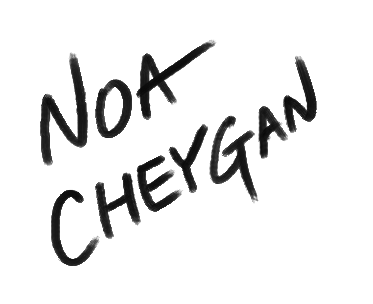
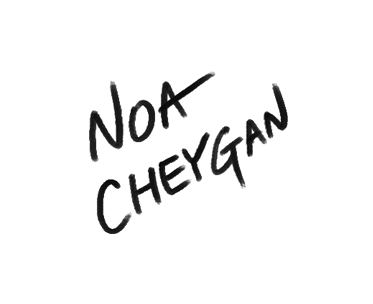
all renewal

Changed region(s): [[0.118, 0.1776, 0.8552, 0.8882], [0.0885, 0.1184, 0.5898, 0.5625]]

diff --git a/gallery.html b/gallery.html
@@ -1,0 +1,80 @@
+<!DOCTYPE html>
+<html>
+    <head>
+        <meta charset="UTF-8">
+        <meta name="viewport" content="width=device-width, initial-scale=1">
+        <meta name=”keywords” content = “Noa, Cheygan″>
+        <meta name = “description” content = “Official website of artist Noa”>
+        <link rel="icon" href="images/favicon.png">
+        <title>Noa Cheygan</title>
+        <link href="https://cdn.jsdelivr.net/npm/bootstrap@5.3.0-alpha3/dist/css/bootstrap.min.css" rel="stylesheet" integrity="sha384-KK94CHFLLe+nY2dmCWGMq91rCGa5gtU4mk92HdvYe+M/SXH301p5ILy+dN9+nJOZ" crossorigin="anonymous">
+    <style>
+        .menu{padding:3px;}
+        .block{padding:50px;}
+    </style>
+    </head>
+
+    <body>
+        
+      <div class="container text-center">
+        <div class="row">
+
+          <div class="col-lg-4 col-md-5">
+            <h2><a href="/"><img src="images/noa.png" alt="Noa Cheygan" width="70%"></a></h2>
+            <div class="menu"><a href="about"><img src="images/about.jpg" alt="About" width="25%"></a></div>
+            <div class="menu"><a href="gallery"><img src="images/gallery.jpg" alt="Gallery" width="25%"></a></div>
+          </div>
+
+          <div class="block col-lg-8 col-md-7">
+            <div id="carouselExampleCaptions" class="carousel slide">
+                <div class="carousel-inner">
+                  <div class="carousel-item active">
+                    <img src="images/230426.jpg" class="d-block w-100" alt="230426">
+                    <div class="carousel-caption d-none d-md-block">
+                      <h5>Faces</h5>
+                    </div>
+                  </div>
+                  <div class="carousel-item">
+                    <img src="images/230427.jpg" class="d-block w-100" alt="230427">
+                    <div class="carousel-caption d-none d-md-block">
+                      <h5>Blue</h5>
+                    </div>
+                  </div>
+                  <div class="carousel-item">
+                    <img src="images/230502-1.jpg" class="d-block w-100" alt="230502-1">
+                    <div class="carousel-caption d-none d-md-block">
+                      <h5>Black and Yellow</h5>
+                    </div>
+                  </div>
+                  <div class="carousel-item">
+                    <img src="images/230502-2.jpg" class="d-block w-100" alt="230502-2">
+                    <div class="carousel-caption d-none d-md-block">
+                      <h5>Yellow Bird</h5>
+                    </div>
+                  </div>
+                  <div class="carousel-item">
+                    <img src="images/230509.jpg" class="d-block w-100" alt="230509">
+                    <div class="carousel-caption d-none d-md-block">
+                      <h5>Blue 2</h5>
+                    </div>
+                  </div>
+                </div>
+                <button class="carousel-control-prev" type="button" data-bs-target="#carouselExampleCaptions" data-bs-slide="prev">
+                  <span class="carousel-control-prev-icon" aria-hidden="true"></span>
+                  <span class="visually-hidden">Previous</span>
+                </button>
+                <button class="carousel-control-next" type="button" data-bs-target="#carouselExampleCaptions" data-bs-slide="next">
+                  <span class="carousel-control-next-icon" aria-hidden="true"></span>
+                  <span class="visually-hidden">Next</span>
+                </button>
+              </div>
+          </div>
+
+        </div>
+      </div>
+
+      <script src="https://cdn.jsdelivr.net/npm/bootstrap@5.3.0-alpha3/dist/js/bootstrap.bundle.min.js"
+      integrity="sha384-ENjdO4Dr2bkBIFxQpeoTz1HIcje39Wm4jDKdf19U8gI4ddQ3GYNS7NTKfAdVQSZe" crossorigin="anonymous"></script>
+    </body>
+
+</html>

diff --git a/about.html b/about.html
@@ -9,13 +9,14 @@
         <title>Noa Cheygan</title>
         <link href="https://cdn.jsdelivr.net/npm/bootstrap@5.3.0-alpha3/dist/css/bootstrap.min.css" rel="stylesheet" integrity="sha384-KK94CHFLLe+nY2dmCWGMq91rCGa5gtU4mk92HdvYe+M/SXH301p5ILy+dN9+nJOZ" crossorigin="anonymous">
     <style>
+        p{text-align: left; padding:2%;}
         .menu{padding:3px;}
-        .welcome{padding:50px;}
+        .profile{padding: 50px;}
     </style>
     </head>
 
-    
     <body>
+        
       <div class="container text-center">
         <div class="row">
 
@@ -25,8 +26,13 @@
             <div class="menu"><a href="gallery"><img src="images/gallery.jpg" alt="Gallery" width="25%"></a></div>
           </div>
 
-          <div class="welcome col-lg-8 col-md-7">
-            <a href=gallery><img src="images/230509.jpg" alt="Artwork of Noa" width="90%"></a>
+          <div class="profile col-lg-8 col-md-7">
+            <a href=gallery><img src="images/profilepic.jpg" alt="Artwork of Noa" width="60%"></a>
+            <p>I am a digital artist.
+            <br>My work is usually printed on paper, and I put my handwritten signature on it before I sell it.
+            <br>Any printed works without my signature are unauthorized.
+            <br>contact: noacheygan@gmail.com</p>
+            </div>
           </div>
 
         </div>
